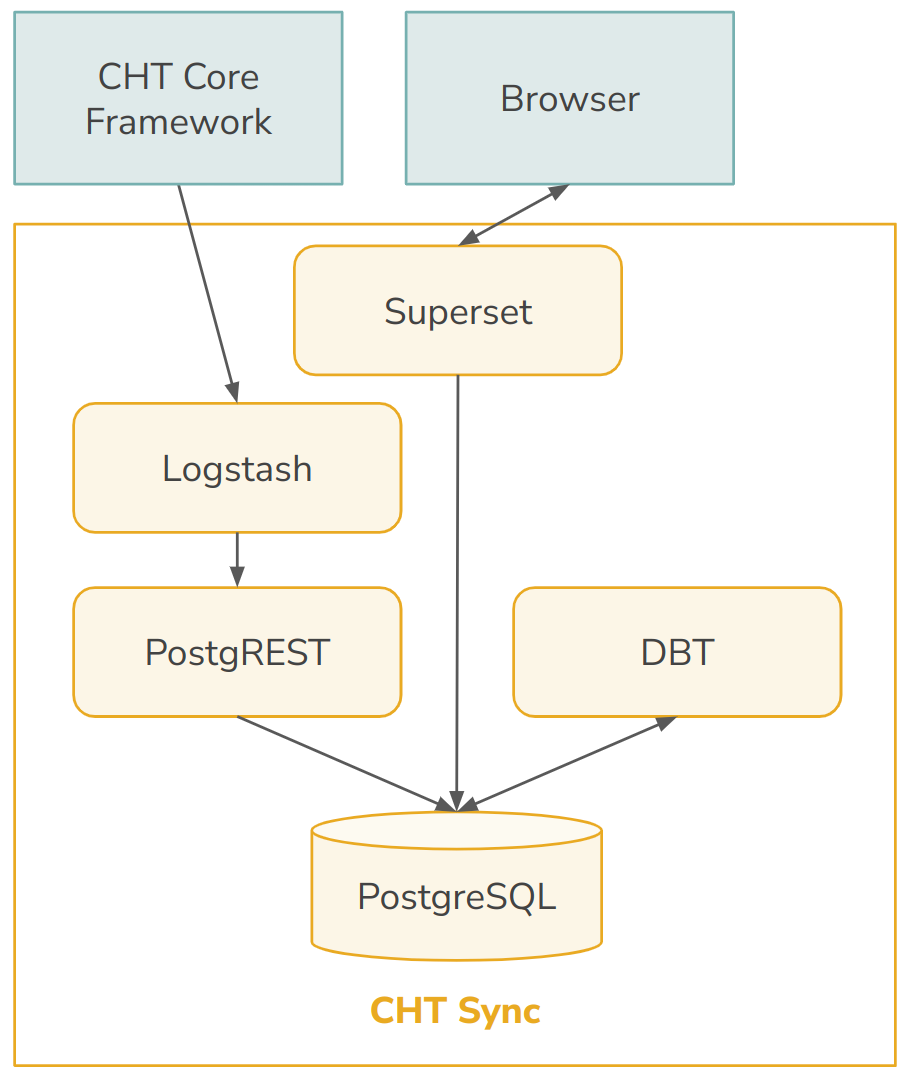
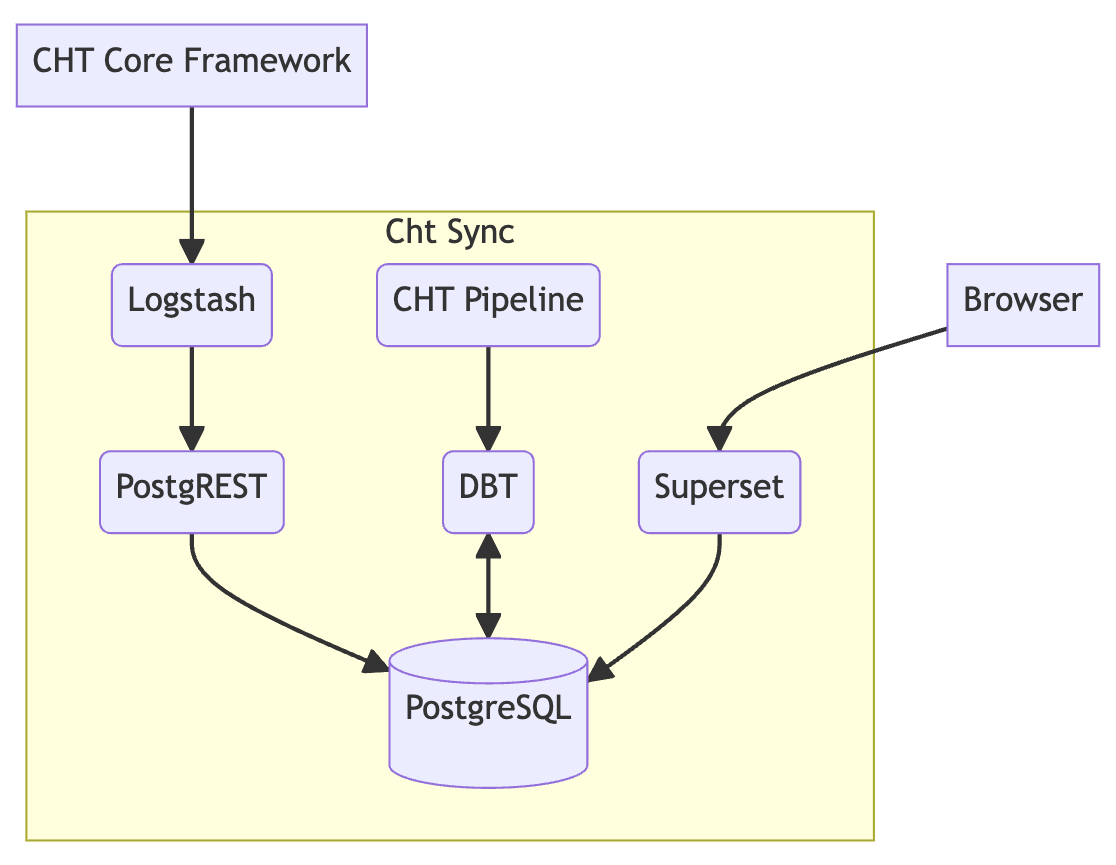
updated the sequence diagram

diff --git a/README.md b/README.md
@@ -1,9 +1,10 @@
 # CHT Sync
 
-CHT Sync is a bundled solution consisting of [Logstash](https://www.elastic.co/logstash/), [CouchDB](https://couchdb.apache.org/), [PostgREST](https://postgrest.org/en/stable/) and [Superset](https://superset.apache.org/). Its purpose is to synchronize data from CouchDB to PostgreSQL, facilitating analytics on a Superset dashboard. This synchronization occurs in real-time, ensuring that the data displayed on the dashboard is always up-to-date. CHT Sync copies data from CouchDB to PostgreSQL, enabling seamless integration and timely analytics.
+CHT Sync is a bundled solution consisting of [Logstash](https://www.elastic.co/logstash/), [CouchDB](https://couchdb.apache.org/), [PostgREST](https://postgrest.org/en/stable/), [DBT](https://www.getdbt.com/), and [Superset](https://superset.apache.org/). Its purpose is to synchronize data from CouchDB to PostgreSQL, facilitating analytics on a Superset dashboard. This synchronization occurs in real-time, ensuring that the data displayed on the dashboard is always up-to-date. CHT Sync copies data from CouchDB to PostgreSQL, enabling seamless integration and timely analytics.
 
 **WARNING!** The schema differs from couch2pg. See [`./postgres/init-db-resources.sh`](./postgres/init-db-resources.sh). 
 
+**Note**: In order for `cht-sync` to run, it needs a link to [cht-pipeline](https://github.com/medic/cht-pipeline), which contains transformation models for DBT.
 
 ## Getting Started
 
